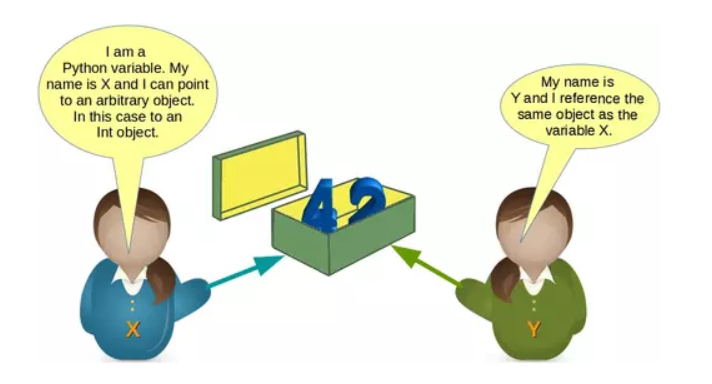
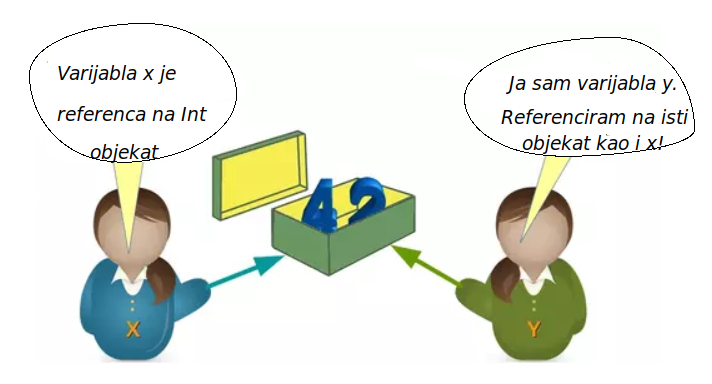
Rad na slikama

Changed region(s): [[0.0309, 0.0625, 0.309, 0.4375], [0.6798, 0.1562, 0.9888, 0.4062]]

diff --git a/knjige_literatura/chapter-01-02/chapter02.tex b/knjige_literatura/chapter-01-02/chapter02.tex
@@ -1,4 +1,4 @@
-\chapter{Neformalni uvod u teoriju algoritama}
+\chapter{Osnove teorije algoritama}
 
 \section{Računarski problem}
 %https://www.cs.stanford.edu/~trevisan/cs254-10/lecture02.pdf ==> dijelom pratimo:
@@ -100,9 +100,7 @@ Na raspolaganju je nekoliko tipova (paradigmi) algoritama. Neke važnije paradig
     \item \textit{Dinamičko programiranje}: Ovaj tip algoritma koristi koncept korištenja već pronađenog rješenja (koje se čuva u memoriji) kako bi se izbjeglo ponavljanje izračunavanja istog dijela problema. Ova paradigma dijeli problem na manje podprobleme, koji se preklapaju, a potom ih rekurzivno rješava.
 \end{enumerate}
    
-   Većina ovih tipova algoritama predstavljaju generičke sheme (paradigme) koje se mogu primijeniti na  rješavanje većeg opsega različitih problema. Tu pripadaju algoritmi brutalne sile, rekurzivni algoritmi, podijeli i zavladaj, algoritam vraćanja unazad, pohlepni algoritmi, dinamičko programiranje isl. U glavi 3 biće detaljno obrađene  neke od pomenutih paradigmi.
-   
-    \\
+   Većina ovih tipova algoritama predstavljaju generičke sheme (paradigme) koje se mogu primijeniti na  rješavanje većeg opsega različitih problema. Tu pripadaju algoritmi brutalne sile, rekurzivni algoritmi, podijeli i zavladaj, algoritam vraćanja unazad, pohlepni algoritmi, dinamičko programiranje isl. U glavi 3 biće detaljno obrađene  neke od pomenutih paradigmi. \\
   
 Dizajniranje efikasnog algoritma je obično dugotrajan proces koji nije direktan, te zahtijeva veliko domensko znanje o problemu te domišljatost onoga koji rješava vezano za način rješavanja samog  problema.  Međutim, postoje neka pravila kojima se vodimo kada konstruišemo algoritam, kao što su korištenje paradigmi za koje znamo da su dovoljno efikasne u rješavaju određenog tipa problema. 
  \\ 
@@ -153,17 +151,32 @@ se standardno koristi za analizu algoritma.  Posmatrajući viši nivo,   karakte
  	pojavljuju ili u ulazu ili kao konstanta u programu; ($iii$) Registar 0 se inicijalizira sa $w$, a registar 1 sa $n$.
  \end{itemize}
 
-Formalno, dopuštene se sljedeće instrukcije za indekse $i, j, k, m \in \mathbb{N} $:
+Formalno, dopuštene se sljedeće instrukcije (u RAM modelu) za indekse $i, j, k, m \in \mathbb{N} $:
 
-\begin{figure}[H]
-	\centering
-	\includegraphics[width=300pt,height=280pt]{slike/instructions_ram.png}
+%\begin{figure}[H]
+%	\centering
+%	\includegraphics[width=300pt,height=280pt]{slike/instructions_ram.png}
+%
+%	\caption{Pregled instrukcija u RAM modelu.}	\label{fig: ram_instructions}
+%\end{figure}
 
-	\caption{Pregled instrukcija u RAM modelu.}	\label{fig: ram_instructions}
-\end{figure}
+\begin{itemize}
+	\item $R[i] \gets m$ (dodjela)
+	\item $R[i] \gets R[j] \pm R[k]$
+	\item $R[i] \gets R[j] \cdot/ R[k] $
+	\item $R[i] \gets R[j] \/ R[k] $
+	\item $R[i] \gets R[j] \wedge R[k]$
+	\item $R[i] \gets \neq R[j] $ (bitovska negacija)
+	\item $R[i] \gets M[R[j]]$
+	\item $M[R[j]] \gets R[i]$
+	\item IF $R[i] = 0$, GOTO $l$
+	\item HALT
+	\item MALLOC (inicijalizacija dodatne memorije)
+	\item $\vdots$
+\end{itemize}
 
 \begin{definition}
-   ${w}$-RAM program je bilo koji konačan niz instrukcija $P = (P_1, P_2,\ldots, P_q)$ gore navedenog tipa. Broj $r$ registara je implicitno definiran kao  najveći indeks direktne memorijske adrese (među indeksima $i, j, k$ u skup instrukcija sa Slike~\ref{fig: ram_instructions}) koji se javljaju u programu.
+   ${w}$-RAM program je bilo koji konačan niz instrukcija $P = (P_1, P_2,\ldots, P_q)$ gore navedenog tipa. Broj $r$ registara je implicitno definisan kao  najveći indeks direktne memorijske adrese (među indeksima $i, j, k$ skupa instrukcija) koji se javljaju u programu.
 \end{definition}
 
 \subsection{Formalizacija računanja na RAM-u}
@@ -337,7 +350,7 @@ U prevodu, funkcije $f$ i $g$ imaju isto asimptotsko ponašanje (dakle, za velik
 	\centering
 	\includegraphics[width=120pt,height=120pt]{slike/theta_notation.jpg}
  
-	\caption{$\Theta$--notacija: vizuelizacija.}	\label{fig:theta_notation}
+	\caption{$\Theta$--notacija: vizuelizacija za slučaj $f(n)=\Theta(g(n))$.}	\label{fig:theta_notation}
 \end{figure}
 
 \begin{example}
@@ -409,7 +422,7 @@ Prethodna sekcija nam daje na uvid neke od osnovnih notacija za ocjenjivanje kom
   	\end{tabular}
 
  \end{table}
- Rast svake od ovih funkcija sa porastom ulaza ($n$) je prikazan na Slici~\ref{fig:kompleksnosti_funkcije}
+ Rast nekih funkcija sa porastom ulaza ($n$) je prikazan na Slici~\ref{fig:kompleksnosti_funkcije}
  \begin{figure}[H]
  	\centering
  	\includegraphics[width=270pt,height=200pt]{slike/growth.png}%growth-Functions.jpg}

diff --git a/knjige_literatura/chapter-01-02/chapter01.tex b/knjige_literatura/chapter-01-02/chapter01.tex
@@ -1,11 +1,11 @@
 \chapter{Uvod u programski jezik Pajton} 
  
 
-Pajton je objektno-orjentisani programski jezik visokog nivoa,  opšte   namjene,   pušten u upotrebu u februaru 1991. godine. Kreiran je od strane Guido van Rossum-a. Naziv Pajton potiče od britanske komičarske grupe \textit{Monty Python}. Od svog nastanka, Pajton je imao nekoliko  izdanja; danas je jedan od najpopularnijih programskih jezika na svijetu, pogledajte Sliku~\ref{fig: popular_program_lang}\footnote{Podaci preuzeti sa  https://statisticsanddata.org/data/the-most-popular-programming-languages-1965-2022-new-update/ .}.
+Pajton je objektno-orjentisani programski jezik visokog nivoa,  opšte   namjene,   pušten u upotrebu u februaru 1991. godine. Kreiran je od strane Guido van Rossum-a. Naziv Pajton potiče od britanske komičarske grupe \textit{Monty Python}. Od svog nastanka, Pajton je imao nekoliko  izdanja; danas je jedan od najpopularnijih programskih jezika na svijetu, pogledajte Sliku~\ref{fig: popular_program_lang}\footnote{Podaci preuzeti sa https://statisticsanddata.org/data/the-most-popular-programming-languages-1965-2022-new-update/.}.
 
 \begin{figure}[H]
 	\centering
-	\includegraphics[width=380pt,height=190pt]{slike/most_popular_language.png}
+	\includegraphics[width=400pt,height=190pt]{slike/most_popular_language.png}
 	\label{fig: popular_program_lang}
 	\caption{Statistički pregled najpopularnijih programskih jezika (godina 2021--2022). }
 \end{figure}
@@ -148,7 +148,7 @@ Očitavanje broja memorijske ćelije te heksadekadnog broja na koju pokazuje var
 	idhex = hex(id(x)) 
 \end{minted} 
 %https://insideaiml.com/blog/Python-Memory-Management-1176 ==> procitati: BITNO 
- Napomenimo da se ispisivanje rezultata na ekranu vrši pomoću naredbe \emph{print}(). Poruka može biti string ali i bilo koji drugi objekat. Svaki objekat će biti konvertovan u string prije nego što se ispiše na ekran. Ukoliko konverzija nije moguća, javiće se poruka o greški. Pisanje komentara u jeziku Pajton je realizovano na više načina: jednolinijski i višelinijski. Jednolinijski komentari počinju sa simbolom tab (\#), nakon čega slijedi opis komentara. U slučaju višelinijskog komentara, početak komentara počinje i završava sa tri uzastopna apostrofa ('''), koji se moraju pravilno uravnati (sa ostatkom k\^oda), da ne bi došlo do pojave sintaksne greške.  
+ Napomenimo da se ispisivanje rezultata na ekranu vrši pomoću naredbe \emph{print}(). Poruka može biti string ali i bilo koji drugi objekat. Svaki objekat će biti konvertovan u string prije nego što se ispiše na ekran. Ukoliko konverzija nije moguća, javiće se poruka o greški. Pisanje komentara u jeziku Pajton je realizovano na više načina: jednolinijski i višelinijski. Jednolinijski komentari počinju sa simbolom tab (\#), nakon čega slijedi opis komentara. U slučaju višelinijskog komentara, početak komentara počinje i završava sa tri uzastopna apostrofa, koji se moraju pravilno uravnati (sa ostatkom k\^oda), da ne bi došlo do pojave sintaksne greške.  
  
 
 
